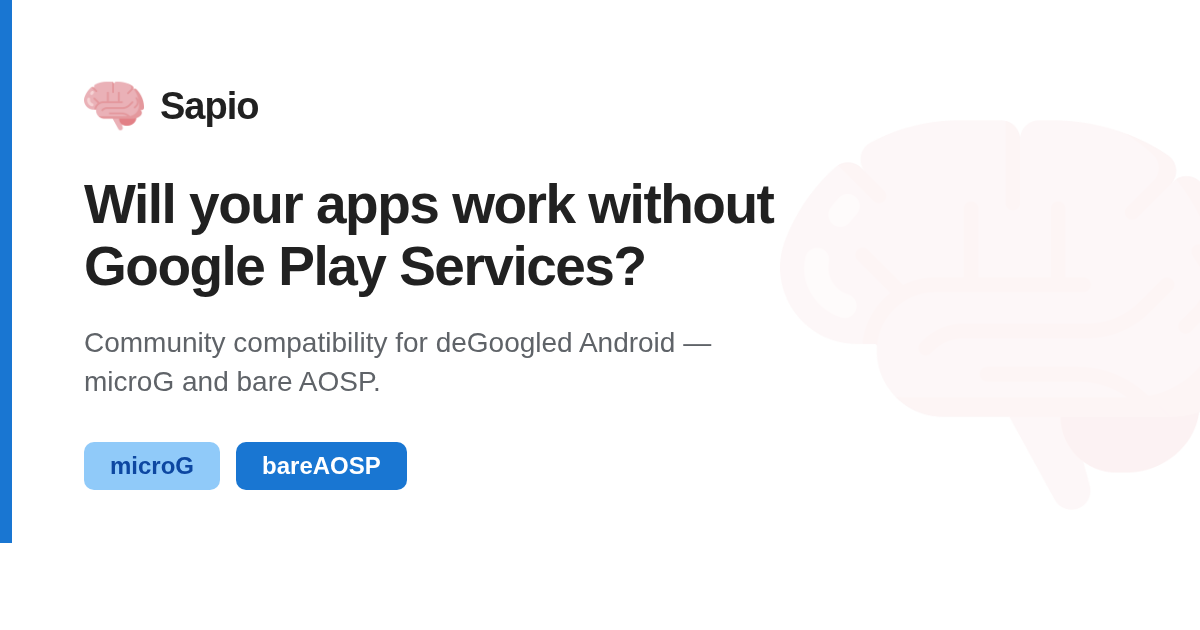
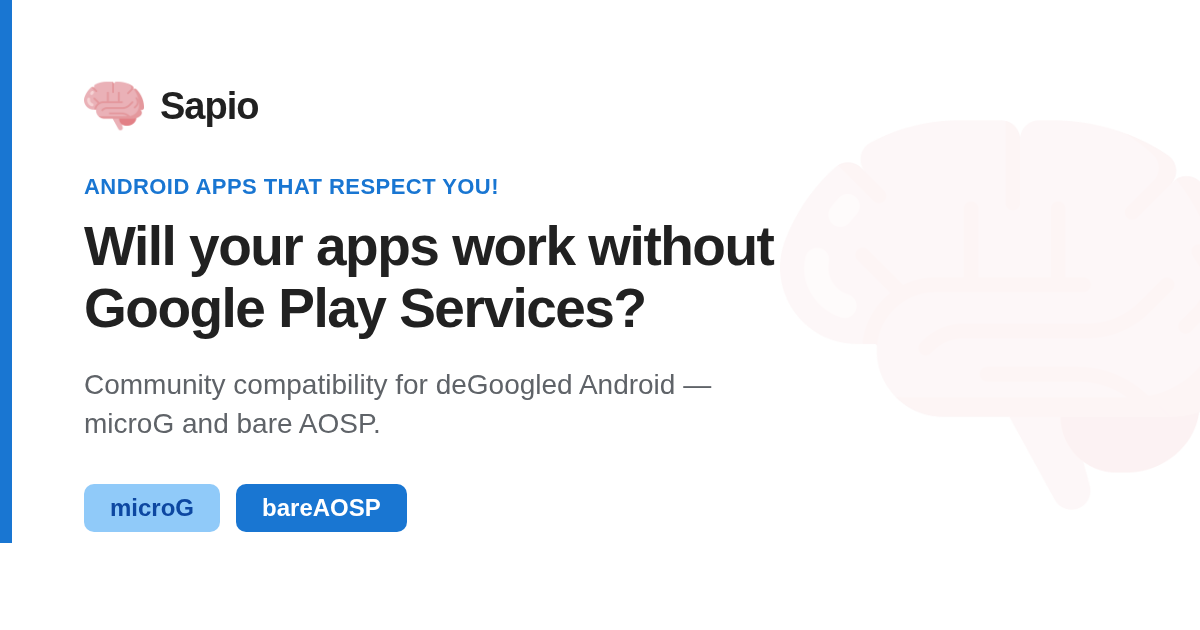
feat(website): add Android apps tagline to OG image

Changed region(s): [[0.0617, 0.2714, 0.6475, 0.8444]]

diff --git a/website/tools/og-card.html b/website/tools/og-card.html
@@ -68,6 +68,15 @@
         max-width: 720px;
     }
 
+    .eyebrow {
+        font-size: 22px;
+        font-weight: 700;
+        color: #1976D2;
+        letter-spacing: 0.02em;
+        text-transform: uppercase;
+        margin-bottom: 16px;
+    }
+
     .pills { margin-top: 40px; display: flex; gap: 16px; }
 
     .pill {
@@ -91,6 +100,7 @@
             <img src="../icon.png" alt="Sapio">
             <span>Sapio</span>
         </div>
+        <p class="eyebrow">Android apps that respect you!</p>
         <h1>Will your apps work without Google Play Services?</h1>
         <p class="sub">Community compatibility for deGoogled Android — microG and bare AOSP.</p>
         <div class="pills">